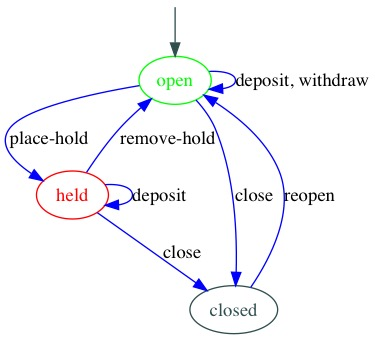
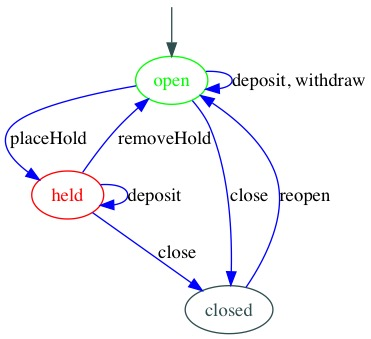
refactor names

diff --git a/_posts/2018-03-03-the-deep-state.md b/_posts/2018-03-03-the-deep-state.md
@@ -239,14 +239,14 @@ digraph Account {
 
   open [color=green, fontcolor=green];
 
-  open -> open [color=blue, label="deposit, withdraw, available-to-withdraw"];
-  open -> held [color=blue, label="place-hold"];
+  open -> open [color=blue, label="deposit, withdraw, availableToWithdraw"];
+  open -> held [color=blue, label="placeHold"];
   open -> closed [color=blue, label="close"];
 
   held [color=red, fontcolor=red];
 
-  held -> held [color=blue, label="deposit, available-to-withdraw"];
-  held -> open [color=blue, label="remove-hold"];
+  held -> held [color=blue, label="deposit, availableToWithdraw"];
+  held -> open [color=blue, label="removeHold"];
   held -> closed [color=blue, label="close"];
 
   closed [color=darkslategrey, fontcolor=darkslategrey];
@@ -254,6 +254,8 @@ digraph Account {
   closed -> open [color=blue, label="reopen"];
 }
 ```
+
+iIf we cut all the colors and so forth out, we can easily generate this DOT file if we have a list of states, events, and the states those events transition to.
 
 ---
 
@@ -430,12 +432,12 @@ Directly compiling diagrams has been--so far--highly unproductive for programmin
 
 |            | open              | held       | closed |
 |:-----------|:------------------|:-----------|:-------|
-| **open**   | deposit, withdraw | place-hold | close  |
-| **held**   | remove-hold       | deposit    | close  |
+| **open**   | deposit, withdraw | placeHold | close  |
+| **held**   | removeHold       | deposit    | close  |
 | **closed** | reopen            |            |        |
 
 
-In the leftmost column, we have the current state of the account. Each subsequent column is a destination state. At the intersection of the current state and a destination state, we have the event or events that transition the object from current to destination state. Thus, `deposit` and `withdraw` transition from `open` to `open`, while `place-hold` transitions the object from `open` to `held`. The start state is arbitrarily taken as the first state listed.
+In the leftmost column, we have the current state of the account. Each subsequent column is a destination state. At the intersection of the current state and a destination state, we have the event or events that transition the object from current to destination state. Thus, `deposit` and `withdraw` transition from `open` to `open`, while `placeHold` transitions the object from `open` to `held`. The start state is arbitrarily taken as the first state listed.
 
 Like the state diagram, the transition table shows clearly which events are handled by which state, and the transitions between them. We can take this idea to our executable code: Here's a version of our account that uses objects to represent table rows and columns.
 

diff --git a/_posts/2018-02-23-forde.md b/_posts/2018-02-23-forde.md
@@ -193,12 +193,12 @@ Directly compiling diagrams has been--so far--highly unproductive for programmin
 
 |            | open              | held       | closed |
 |:-----------|:------------------|:-----------|:-------|
-| **open**   | deposit, withdraw | place-hold | close  |
-| **held**   | remove-hold       | deposit    | close  |
+| **open**   | deposit, withdraw | placeHold | close  |
+| **held**   | removeHold       | deposit    | close  |
 | **closed** | reopen            |            |        |
 
 
-In the leftmost column, we have the current state of the account. Each subsequent column is a destination state. At the intersection of the current state and a destination state, we have the event or events that transition the object from current to destination state. Thus, `deposit` and `withdraw` transition from `open` to `open`, while `place-hold` transitions the object from `open` to `held`. The start state is arbitrarily taken as the first state listed.
+In the leftmost column, we have the current state of the account. Each subsequent column is a destination state. At the intersection of the current state and a destination state, we have the event or events that transition the object from current to destination state. Thus, `deposit` and `withdraw` transition from `open` to `open`, while `placeHold` transitions the object from `open` to `held`. The start state is arbitrarily taken as the first state listed.
 
 Like the state diagram, the transition table shows clearly which events are handled by which state, and the transitions between them. We can take this idea to our executable code: Here's a version of our account that uses objects to represent table rows and columns.
 
